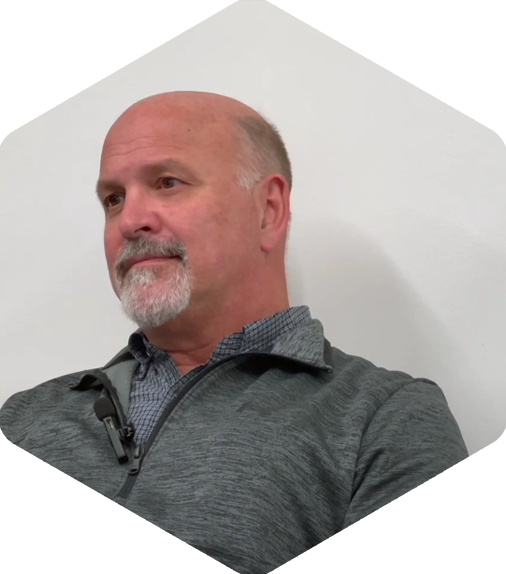
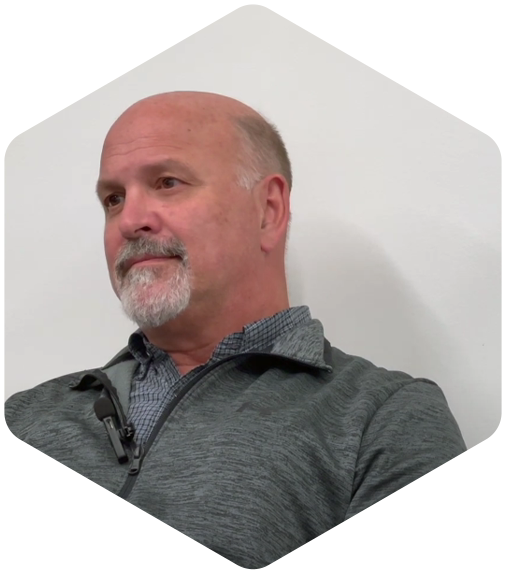
Removed Images

diff --git a/src/components/home/choose.jsx b/src/components/home/choose.jsx
@@ -29,7 +29,7 @@ const Choose = () => {
                                     <div className="d-flex align-items-center justify-content-center">
                                         <Progress
                                             type="circle"
-                                            percent={100}
+                                            percent={99}
                                             width={165}
                                             height={165}
                                             strokeWidth={3.2}
@@ -52,7 +52,7 @@ const Choose = () => {
                                 <div className="progress-circular tl-progress">
                                     <Progress
                                         type="circle"
-                                        percent={100}
+                                        percent={99}
                                         width={165}
                                         height={165}
                                         strokeWidth={3.2}
@@ -74,7 +74,7 @@ const Choose = () => {
                                 <div className="progress-circular tl-progress">
                                     <Progress
                                         type="circle"
-                                        percent={100}
+                                        percent={99}
                                         width={165}
                                         height={165}
                                         strokeWidth={3.2}
@@ -96,7 +96,7 @@ const Choose = () => {
                                 <div className="progress-circular tl-progress">
                                     <Progress
                                         type="circle"
-                                        percent={100}
+                                        percent={99}
                                         width={165}
                                         height={165}
                                         strokeWidth={3.2}

diff --git a/src/components/home/hero-banner.jsx b/src/components/home/hero-banner.jsx
@@ -85,12 +85,24 @@ const HeroBanner = () => {
                                         <img
                                             src={item.img_1}
                                             alt="slider-img"
+                                            style={{
+                                                width: '100%',
+                                                height: 'auto',
+                                                maxWidth: '100%',
+                                                objectFit: 'contain',
+                                            }}
                                         />
                                     </div>
-                                    <div className="slider-content__shape d-none d-md-block">
+                                    <div className="col-lg-2 slider-content__shape d-none d-md-block">
                                         <img
                                             src={item.img_2}
                                             alt="slider-shape"
+                                            style={{
+                                                width: '90%',
+                                                height: 'auto',
+                                                maxWidth: '250px',
+                                                objectFit: 'contain',
+                                            }}
                                         />
                                     </div>
                                 </div>

diff --git a/src/components/home/about.jsx b/src/components/home/about.jsx
@@ -87,6 +87,12 @@ const About = () => {
                                         <img
                                             src={about_thumb}
                                             alt="about-shape"
+                                            style={{
+                                                width: '100%',
+                                                height: 'auto',
+                                                maxWidth: '40%',
+                                                marginRight: '100%',
+                                            }}v         
                                         />
                                     </div>
                                 </div>

diff --git a/public/assets/scss/layout/_counter.scss b/public/assets/scss/layout/_counter.scss
@@ -21,10 +21,10 @@
     }
     &:hover {
       &.counter__item {
-        border: 1px solid var(--tp-icon-blue);
+        border: 1px solid transparent;
       }
       &.blue-border {
-        border: 1px solid var(--tp-icon-blue);
+        border: 1px solid transparent;
       }
       &.pink-border {
         border: 1px solid var(--tp-icon-pink);
